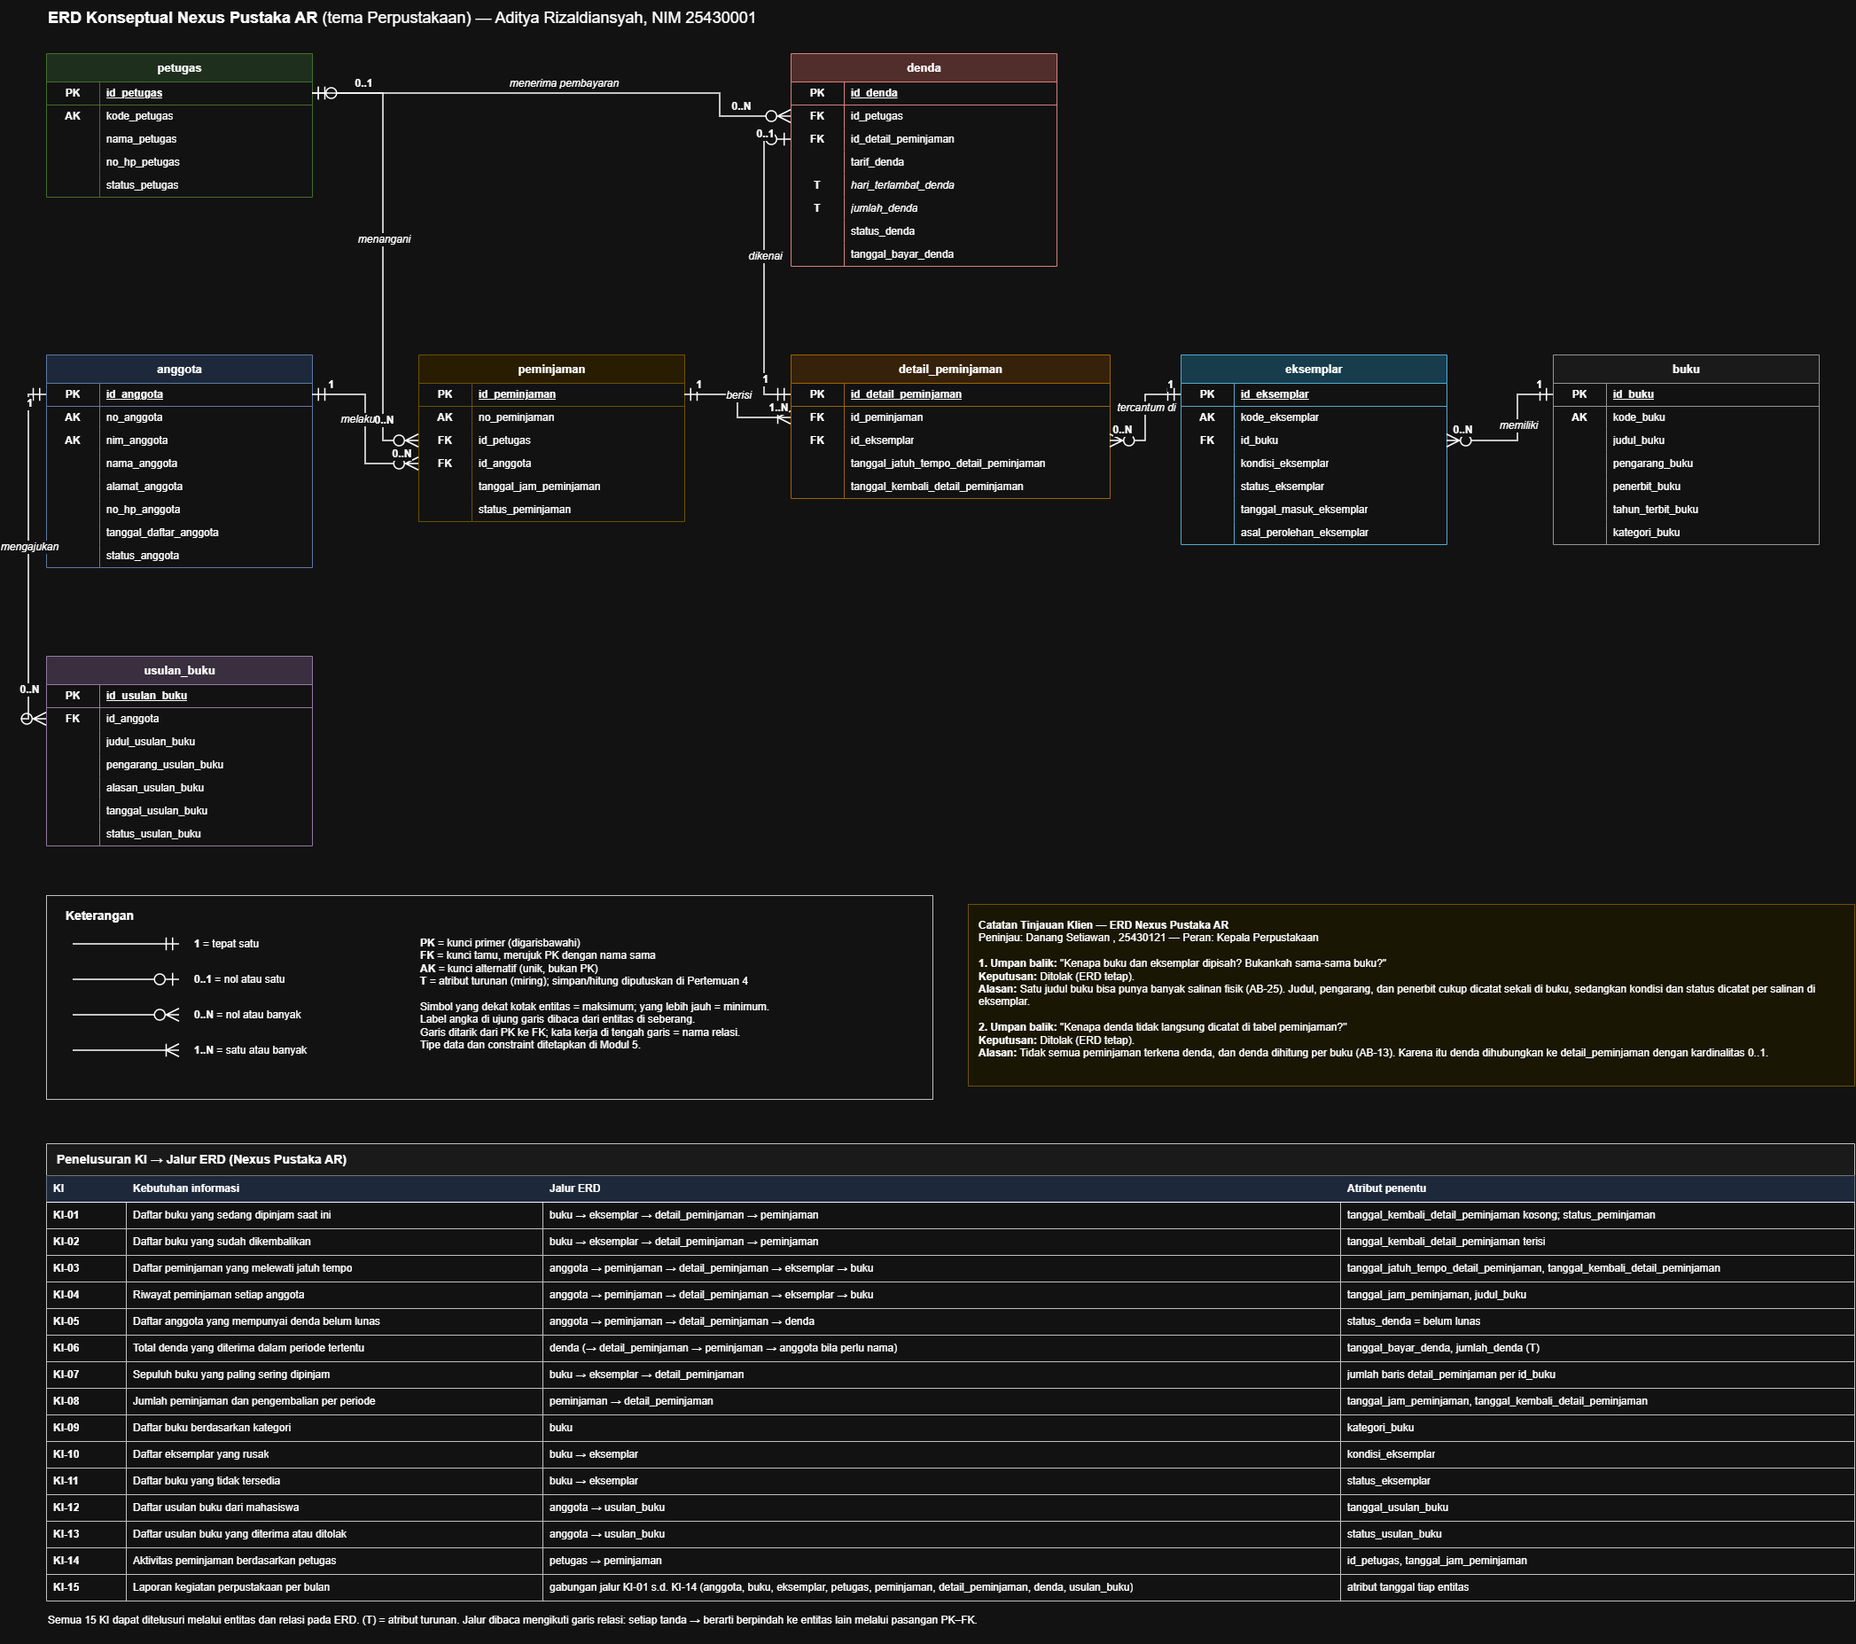
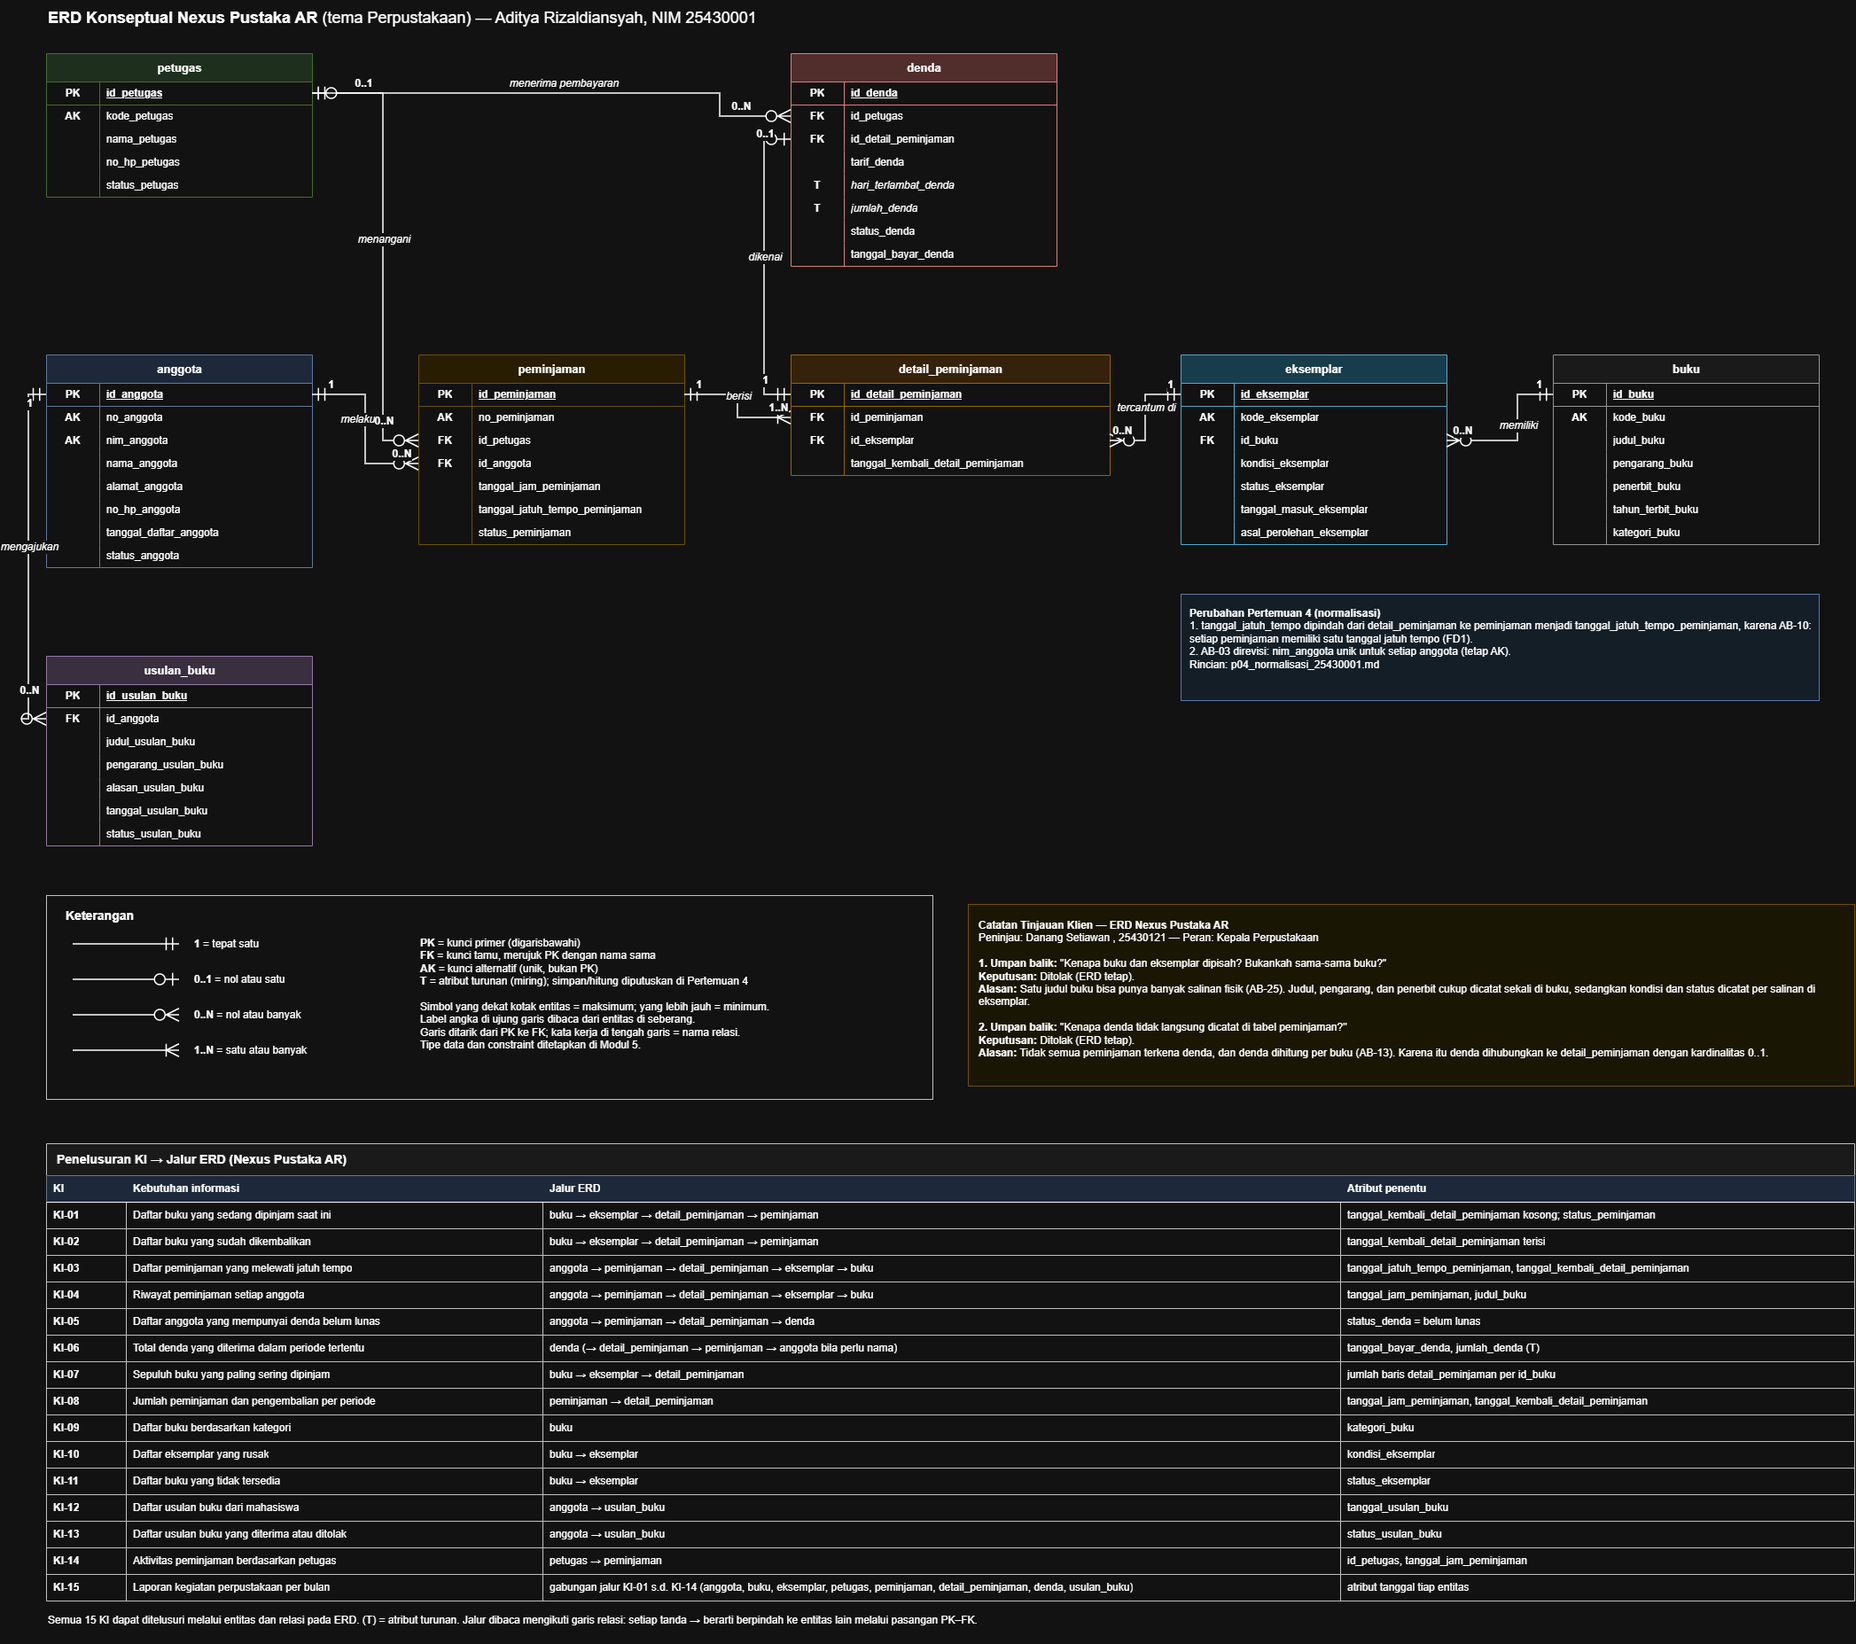
p04: normalisasi proyek nexus pustaka

diff --git a/p04_normalisasi_25430001.md b/p04_normalisasi_25430001.md
@@ -1,0 +1,266 @@
+# Normalisasi Proyek Nexus Pustaka AR - Pertemuan 4
+
+**Nama:** Aditya Rizaldiansyah
+**NIM:** 25430001
+**Tema:** Perpustakaan (`perpus`)
+**Sumber:** `p02_kebutuhan_data_25430001.md` dan ERD `p03_erd_25430001.drawio`
+
+## 1. Dokumen Sumber
+
+Dokumen sumber yang dipakai adalah **Slip Peminjaman** (bagian 3.3 dokumen kebutuhan data), karena satu slip memuat beberapa buku sehingga memiliki grup berulang.
+
+**Penyesuaian rancangan slip:** slip pada Pertemuan 2 hanya mencantumkan Kode Buku (kode judul). Padahal yang dipinjam adalah buku fisik (eksemplar), dan aturan bisnis AB-06, AB-07, dan AB-08 berlaku untuk eksemplar. Karena itu setiap baris slip ditambah **Kode Eksemplar**.
+
+```text
+==================================================
+              NEXUS PUSTAKA AR
+              SLIP PEMINJAMAN
+==================================================
+No. Peminjaman : PMJ-001
+Tanggal        : 07-10-2026 10:30
+No. Anggota    : A-001
+Nama Anggota   : [Nama Mahasiswa]
+Kode Petugas   : PTG-001
+Petugas        : [Nama Petugas]
+--------------------------------------------------
+| No | Kode Eksemplar | Kode Buku | Judul Buku                |
+|----|----------------|-----------|---------------------------|
+| 1  | EX-001         | BK-001    | Basis Data                |
+| 2  | EX-014         | BK-005    | Algoritma dan Pemrograman |
+--------------------------------------------------
+Jumlah Buku    : 2
+Jatuh Tempo    : 14-10-2026
+Status         : Dipinjam
+Denda          : Rp [Nominal]
+==================================================
+```
+
+Kolom "No" pada tabel slip hanya nomor urut tampilan, sehingga tidak dimasukkan sebagai atribut.
+
+## 2. Bentuk UNF
+
+Satu baris mewakili satu slip peminjaman. Buku-buku yang dipinjam adalah grup berulang (ditandai `{ }`).
+
+```text
+PEMINJAMAN_UNF (no_peminjaman, tanggal_jam_peminjaman, no_anggota, nama_anggota,
+  kode_petugas, nama_petugas,
+  { kode_eksemplar, kode_buku, judul_buku },
+  jumlah_buku, tanggal_jatuh_tempo, status_peminjaman, total_denda)
+```
+
+Nama atribut mengikuti pola `<atribut>_<nama_tabel>` (Tabel P.3) sesuai keputusan desain Pertemuan 3.
+
+## 3. Bentuk 1NF
+
+Grup berulang dihilangkan: satu baris untuk setiap eksemplar di setiap slip peminjaman. Kunci primer menjadi komposit **(no_peminjaman, kode_eksemplar)**, karena satu slip memuat beberapa eksemplar dan satu eksemplar dapat dipinjam berkali-kali pada slip berbeda.
+
+```text
+PEMINJAMAN_1NF (no_peminjaman, kode_eksemplar, tanggal_jam_peminjaman, no_anggota, nama_anggota,
+  kode_petugas, nama_petugas, kode_buku, judul_buku,
+  jumlah_buku, tanggal_jatuh_tempo, status_peminjaman, total_denda)
+```
+
+Contoh data 1NF (fiktif):
+
+| no_peminjaman | kode_eksemplar | tanggal_jam_peminjaman | no_anggota | nama_anggota | kode_petugas | nama_petugas | kode_buku | judul_buku |
+|---|---|---|---|---|---|---|---|---|
+| PMJ-001 | EX-001 | 2026-10-07 10:30 | A-001 | Rina | PTG-001 | Budi | BK-001 | Basis Data |
+| PMJ-001 | EX-014 | 2026-10-07 10:30 | A-001 | Rina | PTG-001 | Budi | BK-005 | Algoritma dan Pemrograman |
+| PMJ-002 | EX-001 | 2026-10-20 09:15 | A-007 | Dodi | PTG-001 | Budi | BK-001 | Basis Data |
+
+Masalah yang masih tersisa di 1NF: data slip (tanggal, anggota, petugas) dan data buku (judul) tertulis berulang di banyak baris. Contohnya, nama petugas "Budi" muncul di setiap baris dan judul "Basis Data" muncul setiap kali eksemplar EX-001 dipinjam. Pengulangan ini menimbulkan anomali ubah, sisip, dan hapus.
+
+## 4. Dependensi Fungsional
+
+Dependensi fungsional diturunkan dari aturan bisnis pada dokumen kebutuhan data Pertemuan 2, bukan dari isi contoh data.
+
+| Kode | Dependensi fungsional | Arti | Dasar |
+|---|---|---|---|
+| FD1 | no_peminjaman → tanggal_jam_peminjaman, no_anggota, kode_petugas, tanggal_jatuh_tempo, status_peminjaman | Satu slip memiliki satu waktu peminjaman, satu anggota, satu petugas, satu tanggal jatuh tempo, dan satu status | AB-09, AB-10 |
+| FD2 | no_anggota → nama_anggota | Satu nomor anggota hanya milik satu anggota | AB-02 |
+| FD3 | kode_petugas → nama_petugas | Satu kode petugas hanya milik satu petugas | AB-22; kamus data (kode_petugas unik) |
+| FD4 | kode_eksemplar → kode_buku | Satu eksemplar adalah salinan dari tepat satu judul buku | AB-20, AB-25 |
+| FD5 | kode_buku → judul_buku | Satu kode buku hanya menunjuk satu judul | AB-19 |
+| FD6 | no_peminjaman → jumlah_buku | Jumlah eksemplar dalam satu slip (turunan, dihitung dari baris detail) | AB-05 |
+| FD7 | no_peminjaman → total_denda | Jumlah seluruh denda buku dalam satu slip (turunan) | AB-13, AB-15 |
+
+```text
+FD1: no_peminjaman -> tanggal_jam_peminjaman, no_anggota, kode_petugas,
+                      tanggal_jatuh_tempo, status_peminjaman          (AB-09, AB-10)
+FD2: no_anggota -> nama_anggota                                       (AB-02)
+FD3: kode_petugas -> nama_petugas                                     (AB-22)
+FD4: kode_eksemplar -> kode_buku                                      (AB-20, AB-25)
+FD5: kode_buku -> judul_buku                                          (AB-19)
+FD6: no_peminjaman -> jumlah_buku                                     (turunan, AB-05)
+FD7: no_peminjaman -> total_denda                                     (turunan, AB-13, AB-15)
+```
+
+**Keputusan jatuh tempo:** AB-10 menyatakan setiap peminjaman memiliki tanggal jatuh tempo, dan slip mencantumkan jatuh tempo satu kali. Karena itu tanggal_jatuh_tempo bergantung pada no_peminjaman (FD1), bukan pada pasangan (no_peminjaman, kode_eksemplar). Akibatnya atribut ini dipindah dari detail_peminjaman ke peminjaman, dan ERD Pertemuan 3 diperbarui (lihat bagian Perubahan ERD).
+
+**Catatan:** pada slip, kunci (no_peminjaman, kode_eksemplar) tidak menentukan atribut lain. Atribut per eksemplar yang dipinjam, yaitu tanggal_kembali_detail_peminjaman, berasal dari Bukti Pengembalian dan ditambahkan pada skema final.
+
+## 5. Bentuk 2NF
+
+Kunci 1NF adalah komposit (no_peminjaman, kode_eksemplar). Atribut yang hanya bergantung pada sebagian kunci (ketergantungan parsial):
+
+- Bergantung pada **no_peminjaman** saja (FD1, FD2, FD3, FD6, FD7): tanggal_jam_peminjaman, no_anggota, nama_anggota, kode_petugas, nama_petugas, tanggal_jatuh_tempo, status_peminjaman, jumlah_buku, total_denda.
+- Bergantung pada **kode_eksemplar** saja (FD4, FD5): kode_buku, judul_buku.
+
+Atribut tersebut dipindah ke relasi tersendiri:
+
+```text
+PEMINJAMAN_2NF (no_peminjaman, tanggal_jam_peminjaman, no_anggota, nama_anggota,
+                kode_petugas, nama_petugas, tanggal_jatuh_tempo, status_peminjaman,
+                jumlah_buku, total_denda)
+
+EKSEMPLAR_2NF (kode_eksemplar, kode_buku, judul_buku)
+
+DETAIL_PEMINJAMAN_2NF (no_peminjaman*, kode_eksemplar*)
+```
+
+Keterangan: kolom pertama setiap relasi adalah kunci primer (DETAIL_PEMINJAMAN memakai kunci komposit dua kolom); tanda * = kunci tamu.
+
+DETAIL_PEMINJAMAN_2NF hanya berisi kunci karena slip peminjaman tidak memuat atribut lain per eksemplar. Relasi ini tetap diperlukan untuk mencatat eksemplar mana yang dipinjam pada slip mana (hubungan banyak-ke-banyak antara peminjaman dan eksemplar).
+
+Anomali sisip berkurang: eksemplar baru kini dapat dicatat di EKSEMPLAR_2NF tanpa menunggu ada peminjaman. Namun PEMINJAMAN_2NF masih menyimpan nama anggota dan nama petugas secara berulang, dan EKSEMPLAR_2NF masih menyimpan judul buku berulang untuk setiap salinan.
+
+## 6. Bentuk 3NF
+
+Hasil 2NF masih memiliki ketergantungan transitif (atribut bukan kunci ditentukan oleh atribut bukan kunci lain):
+
+- no_peminjaman → no_anggota → nama_anggota (FD1, FD2)
+- no_peminjaman → kode_petugas → nama_petugas (FD1, FD3)
+- kode_eksemplar → kode_buku → judul_buku (FD4, FD5)
+
+Rantai tersebut diputus dengan memindahkan anggota, petugas, dan buku ke relasi sendiri:
+
+```text
+PEMINJAMAN_3NF (no_peminjaman, tanggal_jam_peminjaman, no_anggota*, kode_petugas*,
+                tanggal_jatuh_tempo, status_peminjaman, jumlah_buku, total_denda)
+
+ANGGOTA_3NF (no_anggota, nama_anggota)
+
+PETUGAS_3NF (kode_petugas, nama_petugas)
+
+EKSEMPLAR_3NF (kode_eksemplar, kode_buku*)
+
+BUKU_3NF (kode_buku, judul_buku)
+
+DETAIL_PEMINJAMAN_3NF (no_peminjaman*, kode_eksemplar*)
+```
+
+Keterangan: kolom pertama setiap relasi adalah kunci primer (DETAIL_PEMINJAMAN memakai kunci komposit dua kolom); tanda * = kunci tamu.
+
+Catatan: jumlah_buku dan total_denda adalah nilai turunan (FD6, FD7). Keputusan menyimpan atau menghitungnya dibahas pada bagian berikutnya.
+
+### Ringkasan tahapan
+
+| Tahap | Relasi | Yang dihilangkan |
+|---|---|---|
+| UNF | PEMINJAMAN_UNF | — (masih ada grup berulang eksemplar) |
+| 1NF | PEMINJAMAN_1NF | Grup berulang eksemplar per slip |
+| 2NF | PEMINJAMAN, EKSEMPLAR, DETAIL_PEMINJAMAN | Ketergantungan parsial (FD1, FD4) |
+| 3NF | PEMINJAMAN, ANGGOTA, PETUGAS, EKSEMPLAR, BUKU, DETAIL_PEMINJAMAN | Ketergantungan transitif (FD2, FD3, FD5) |
+
+## 7. Keputusan Nilai Turunan
+
+| Nilai turunan | Rumus | Keputusan | Alasan |
+|---|---|---|---|
+| jumlah_buku | jumlah baris DETAIL_PEMINJAMAN per no_peminjaman | Dihitung | Selalu sesuai jumlah eksemplar yang benar-benar tercatat; batas maksimal 4 buku (AB-05) diperiksa dari jumlah baris detail |
+| hari_terlambat_denda | tanggal_kembali_detail_peminjaman − tanggal_jatuh_tempo_peminjaman | Dihitung | Dapat dihitung dari dua tanggal yang sudah disimpan; jika disimpan bisa tidak cocok saat tanggal kembali diralat |
+| jumlah_denda | tarif_denda × hari_terlambat_denda | Dihitung | Tarif sudah dikunci per transaksi (AB-14), sehingga hasil hitungan selalu sama dengan nilai saat denda terjadi (AB-15) |
+| total_denda | Σ jumlah_denda dalam satu peminjaman | Dihitung | Jika disimpan, bisa berbeda dengan denda per buku saat salah satu denda diralat |
+
+**Nilai asal yang tetap disimpan:** tarif_denda (AB-14), tanggal_jatuh_tempo_peminjaman (AB-10), tanggal_kembali_detail_peminjaman (AB-11), dan status_denda (AB-16).
+
+**Perubahan dari Pertemuan 2:** kamus data awal mencatat jumlah_denda sebagai "dihitung dan disimpan". Setelah normalisasi, jumlah_denda diputuskan untuk dihitung, karena tarif_denda yang disimpan sudah cukup untuk menjaga nilai historis denda. Prinsip ini sama dengan harga saat transaksi pada Kopma (AB-04): nilai asal dikunci, nilai turunannya dihitung.
+
+## 8. Skema 3NF Final
+
+Hasil 3NF dilengkapi dengan atribut dari kamus data (Pertemuan 2) yang tidak tercatat di slip peminjaman, serta relasi denda dan usulan_buku dari ERD Pertemuan 3. Nilai turunan tidak disimpan (bagian 7).
+
+```text
+ANGGOTA (no_anggota, nim_anggota, nama_anggota, alamat_anggota, no_hp_anggota,
+         tanggal_daftar_anggota, status_anggota)
+PETUGAS (kode_petugas, nama_petugas, no_hp_petugas, status_petugas)
+BUKU (kode_buku, judul_buku, pengarang_buku, penerbit_buku, tahun_terbit_buku, kategori_buku)
+EKSEMPLAR (kode_eksemplar, kode_buku*, kondisi_eksemplar, status_eksemplar,
+           tanggal_masuk_eksemplar, asal_perolehan_eksemplar)
+PEMINJAMAN (no_peminjaman, tanggal_jam_peminjaman, no_anggota*, kode_petugas*,
+            tanggal_jatuh_tempo_peminjaman, status_peminjaman)
+DETAIL_PEMINJAMAN (no_peminjaman*, kode_eksemplar*, tanggal_kembali_detail_peminjaman)
+DENDA (no_peminjaman*, kode_eksemplar*, tarif_denda, status_denda, tanggal_bayar_denda, kode_petugas*)
+USULAN_BUKU (id_usulan_buku, no_anggota*, judul_usulan_buku, pengarang_usulan_buku,
+             alasan_usulan_buku, tanggal_usulan_buku, status_usulan_buku)
+-- kolom pertama = kunci primer (DETAIL_PEMINJAMAN dan DENDA: dua kolom pertama); * = kunci tamu
+```
+
+Catatan:
+
+- DENDA memakai kunci yang sama dengan DETAIL_PEMINJAMAN karena satu buku dalam satu peminjaman paling banyak memiliki satu denda (AB-13, AB-17).
+- kode_petugas pada DENDA boleh kosong karena denda yang belum lunas belum memiliki petugas penerima (AB-16, AB-17).
+- USULAN_BUKU tidak memiliki kode alami di kamus data, sehingga tetap memakai id_usulan_buku.
+
+## 9. Skema dengan Kunci Pengganti
+
+Sesuai ERD Pertemuan 3, setiap tabel memakai kunci pengganti `id_*` sebagai kunci primer, sedangkan kode alami menjadi kunci unik.
+
+| Tabel | Kunci primer | Kunci unik | Kunci tamu |
+|---|---|---|---|
+| anggota | id_anggota | no_anggota, nim_anggota | – |
+| petugas | id_petugas | kode_petugas | – |
+| buku | id_buku | kode_buku | – |
+| eksemplar | id_eksemplar | kode_eksemplar | id_buku |
+| peminjaman | id_peminjaman | no_peminjaman | id_anggota, id_petugas |
+| detail_peminjaman | id_detail_peminjaman | (id_peminjaman, id_eksemplar) | id_peminjaman, id_eksemplar |
+| denda | id_denda | id_detail_peminjaman | id_detail_peminjaman, id_petugas (boleh NULL) |
+| usulan_buku | id_usulan_buku | – | id_anggota |
+
+Dua kunci unik baru yang ditemukan dari normalisasi dan belum tercantum di ERD Pertemuan 3:
+
+- **(id_peminjaman, id_eksemplar) pada detail_peminjaman**: mencegah eksemplar yang sama tercatat dua kali dalam satu peminjaman.
+- **id_detail_peminjaman pada denda**: menjamin satu detail paling banyak memiliki satu denda (kardinalitas 0..1).
+
+Keduanya akan diwujudkan sebagai constraint UNIQUE pada Pertemuan 5.
+
+## 10. Pemeriksaan BCNF
+
+### Temuan pada tabel anggota
+
+AB-03 semula berbunyi: *"NIM mahasiswa tidak boleh sama pada dua anggota aktif."* Artinya, NIM yang sama dapat muncul di dua baris (satu aktif, satu nonaktif), sehingga nim_anggota bukan kunci kandidat. Padahal satu NIM selalu menunjuk satu mahasiswa, sehingga berlaku:
+
+```text
+nim_anggota -> nama_anggota, alamat_anggota, no_hp_anggota
+```
+
+Penentu nim_anggota bukan kunci kandidat, sehingga tabel anggota **tidak memenuhi BCNF** (juga terdapat rantai transitif id_anggota → nim_anggota → nama_anggota). Contoh anomali yang dapat terjadi:
+
+| no_anggota | nim_anggota | nama_anggota | status_anggota |
+|---|---|---|---|
+| A-001 | 25430099 | Rina | nonaktif |
+| A-150 | 25430099 | Rina Putri | aktif |
+
+**Perbaikan:** AB-03 direvisi menjadi *"NIM mahasiswa unik untuk setiap anggota. Mahasiswa yang berhenti lalu kembali aktif cukup diubah status keanggotaannya, bukan didaftarkan ulang."* Dengan revisi ini nim_anggota menjadi kunci kandidat, sesuai ERD Pertemuan 3 yang sudah menandai nim_anggota sebagai kunci alternatif (AK).
+
+### Hasil pemeriksaan seluruh tabel (setelah perbaikan)
+
+| Tabel | Penentu (sisi kiri FD) | Kunci kandidat? | BCNF |
+|---|---|---|---|
+| anggota | id_anggota, no_anggota, nim_anggota | Ya, ketiganya unik (AB-02, AB-03 revisi) | ✅ |
+| petugas | id_petugas, kode_petugas | Ya, keduanya unik | ✅ |
+| buku | id_buku, kode_buku | Ya, keduanya unik (AB-19) | ✅ |
+| eksemplar | id_eksemplar, kode_eksemplar | Ya, keduanya unik (AB-20) | ✅ |
+| peminjaman | id_peminjaman, no_peminjaman | Ya, keduanya unik | ✅ |
+| detail_peminjaman | id_detail_peminjaman, (id_peminjaman, id_eksemplar) | Ya, keduanya unik | ✅ |
+| denda | id_denda, id_detail_peminjaman | Ya, keduanya unik (satu detail paling banyak satu denda) | ✅ |
+| usulan_buku | id_usulan_buku | Ya | ✅ |
+
+Kesimpulan: setelah AB-03 direvisi, tidak ada penentu yang bukan kunci kandidat, sehingga seluruh tabel proyek memenuhi BCNF. Pemeriksaan dilakukan dengan kunci alami, bukan hanya kunci pengganti, karena kunci pengganti tidak menghapus dependensi fungsional (Troubleshooting Masalah 3).
+
+## Perubahan ERD dan Aturan Bisnis
+
+| No | Perubahan | Alasan | Dampak |
+|----|-----------|--------|--------|
+| 1 | `tanggal_jatuh_tempo_detail_peminjaman` dipindah dari `detail_peminjaman` ke `peminjaman` menjadi `tanggal_jatuh_tempo_peminjaman` | AB-10: satu peminjaman memiliki satu tanggal jatuh tempo (FD1: no_peminjaman → tanggal_jatuh_tempo) | ERD `p03_erd_25430001.drawio` dan KI-03 diperbarui |
+| 2 | AB-03 direvisi: NIM unik untuk setiap anggota | Pemeriksaan BCNF: `nim_anggota` harus menjadi kunci kandidat | Dokumen `p02_kebutuhan_data_25430001.md` diperbarui |
+| 3 | Kunci unik baru: (`id_peminjaman`, `id_eksemplar`) pada `detail_peminjaman` dan `id_detail_peminjaman` pada `denda` | Mencegah eksemplar yang sama tercatat dua kali dalam satu peminjaman dan mencegah satu detail memiliki dua denda | Dicatat di sini, diterapkan sebagai `UNIQUE` pada Modul 5 |
